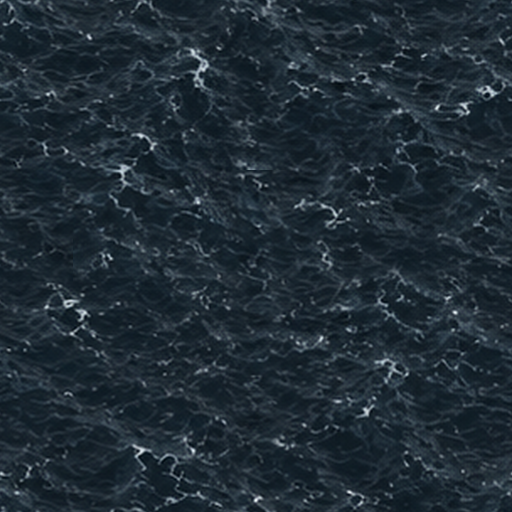
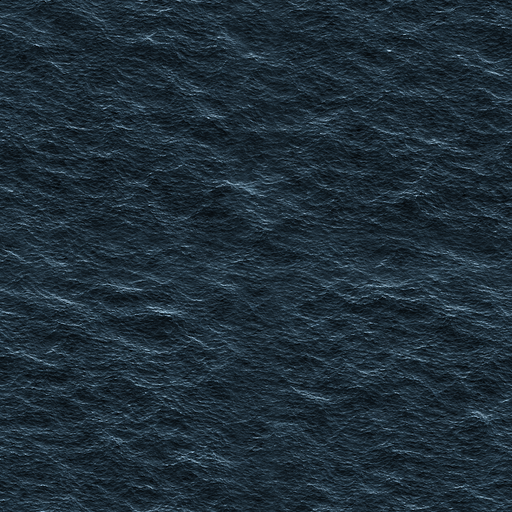
feat: Ozean-Kachel aus watertile.png, Vorlagen werden normiert
Neue Vorlage für die Wasserfläche: watertile.png statt des ChatGPT-Kachelblatts.
Gleichmäßigere feine Kräuselung, keine auffälligen Schaumadern — ruhigere See.

Zwei Änderungen am Werkzeug waren nötig, damit eine fremde Vorlage überhaupt
verwendbar ist:

NORMIERUNG. watertile.png ist 2,2-mal heller und dreimal flacher als die
bisherige Kachel (Streuung 0,033 gegen 0,073). Der Shader hat aber FESTE
Schwellen für Schaumkämme, Wasserfarbe und Kontrastspreizung — mit dieser
Vorlage hätte die Schaumschwelle über allem gelegen, was im Bild vorkommt: keine
Kämme mehr, dafür eine grelle Fläche. `ocean-texture.py` zieht die Kachel jetzt
auf eine feste Zielstatistik (Luminanz 0,171 / 0,073) und lässt den Farbton
unangetastet. Damit ist der Shader quellenunabhängig und Vorlagen lassen sich
tauschen, ohne Konstanten nachzuziehen.

IMMER BEIDE ACHSEN NAHTLOS MACHEN. Ich hatte eingebaut, nur die Achse zu
behandeln, die der Nahttest als gebrochen meldet — bei watertile.png also nur
links/rechts. Gekachelt standen dann klar sichtbare waagerechte Linien im Bild.
Grund: `naht_rang` misst HELLIGKEITSsprünge, und oben/unten lag ein
STRUKTURbruch vor, bei dem das Wellenmuster nicht weiterläuft, die Helligkeit
aber passt. Der Test taugt zur Kontrolle hinterher, nicht als Schalter davor;
das steht jetzt als Warnung an der Funktion. (Er irrt auch in die andere
Richtung: beim fertigen Ergebnis meldet er 97 %, im Bild ist nichts zu sehen.)
[…]

diff --git a/apps/client/src/game/Ocean.ts b/apps/client/src/game/Ocean.ts
@@ -135,7 +135,14 @@ void main() {
   float aWeit = (1.0 - wGrob) * (1.0 - wFein);
   float aGrob = wGrob * (1.0 - wFein);
   float kontrast = inversesqrt(aWeit * aWeit + aGrob * aGrob + wFein * wFein);
-  vec3 kachelMittel = vec3(0.127, 0.175, 0.211);
+  /*
+   * Kanalmittel der Kachel. Bezugspunkt der Kontrastspreizung — es muss NICHT
+   * bei jedem Vorlagenwechsel nachgezogen werden, weil tools/ocean-texture.py
+   * die Kachel auf eine feste Zielstatistik normiert (siehe ZIEL_MITTEL dort).
+   * Ohne diese Normierung hätte eine helle, flaue Vorlage gar keine Kämme mehr
+   * und eine grelle Fläche ergeben.
+   */
+  vec3 kachelMittel = vec3(0.122, 0.182, 0.224);
   wasser = max((wasser - kachelMittel) * kontrast + kachelMittel, vec3(0.0));
 
   /*

diff --git a/tools/ocean-texture.py b/tools/ocean-texture.py
@@ -111,8 +111,20 @@ def nahtlos_machen(feld: np.ndarray, partner: np.ndarray) -> np.ndarray:
     unpassenden Ränder liegen jetzt als Kreuz in der Mitte und werden dort mit
     einem anderen Ausschnitt weich überblendet — mit einem FREMDEN, weil ein
     Verblenden des Feldes mit sich selbst ein Geisterbild ergäbe.
+
+    ⚠ IMMER BEIDE ACHSEN behandeln, auch wenn die Messung eine davon für
+    sauber hält. Der Versuch, nur die gebrochene Achse anzufassen, ging schief:
+    `naht_rang` misst HELLIGKEITSsprünge, und watertile.png hatte oben/unten
+    keinen — wohl aber einen STRUKTURbruch, bei dem das Wellenmuster einfach
+    nicht weiterläuft. Gekachelt standen dann klar sichtbare waagerechte Linien
+    im Bild, obwohl die Zahl 27 % sagte. Die Messung taugt zur Kontrolle
+    hinterher, nicht als Schalter davor.
     """
     n = feld.shape[0]
+    grau = feld.mean(axis=2)
+    print(f"  Naht der Vorlage (nur Helligkeit): links/rechts {naht_rang(grau, 1):.0f}%, "
+          f"oben/unten {naht_rang(grau, 0):.0f}%")
+
     versetzt = np.roll(np.roll(feld, n // 2, axis=0), n // 2, axis=1)
     fremd = np.roll(np.roll(partner, n // 3, axis=0), n // 7, axis=1)
 
@@ -123,6 +135,35 @@ def nahtlos_machen(feld: np.ndarray, partner: np.ndarray) -> np.ndarray:
     keil = keil * keil * (3 - 2 * keil)
     maske = np.maximum(keil[:, None], keil[None, :])[..., None]
     return versetzt * (1 - maske) + fremd * maske
+
+
+# Zielstatistik der fertigen Kachel. Der Ozean-Shader hat FESTE Schwellen für
+# Schaumkämme, Wasserfarbe und Kontrast; sie sind auf diese Werte eingestellt.
+# Ohne Normierung müsste man sie bei jeder neuen Vorlage nachziehen — eine
+# helle, flaue Aufnahme hätte sonst gar keine Kämme mehr und eine grelle Fläche.
+ZIEL_MITTEL = 0.171
+ZIEL_STREUUNG = 0.073
+
+
+def normieren(feld: np.ndarray) -> np.ndarray:
+    """
+    Helligkeit und Kontrast auf die Zielstatistik ziehen, FARBTON unangetastet.
+
+    Gearbeitet wird auf der Luminanz; die Kanäle folgen im selben Verhältnis.
+    Dadurch bleibt das Blau der Vorlage erhalten, nur Helligkeit und Spreizung
+    werden vergleichbar gemacht.
+    """
+    lum = feld @ np.array([0.299, 0.587, 0.114])
+    mittel, streuung = lum.mean() / 255.0, lum.std() / 255.0
+    faktor = ZIEL_STREUUNG / max(streuung, 1e-6)
+    ziel = (lum / 255.0 - mittel) * faktor + ZIEL_MITTEL
+    ziel = np.clip(ziel, 0.004, 1.0)
+    print(
+        f"  Normiert: Mittel {mittel:.3f} -> {ZIEL_MITTEL:.3f}, "
+        f"Streuung {streuung:.3f} -> {ZIEL_STREUUNG:.3f}"
+    )
+    verhaeltnis = (ziel * 255.0) / np.maximum(lum, 1.0)
+    return np.clip(feld * verhaeltnis[..., None], 0, 255)
 
 
 def gauss_periodisch(feld: np.ndarray, sigma: float) -> np.ndarray:
@@ -193,6 +234,7 @@ def main() -> None:
     verlauf = gauss_periodisch(kachel, sigma=n / 5.0)
     mittel = kachel.reshape(-1, kachel.shape[2]).mean(axis=0)
     ausgeglichen = np.clip(kachel - verlauf + mittel, 0, 255)
+    ausgeglichen = normieren(ausgeglichen)
 
     speichern(name_aus(quelle), ausgeglichen / 255.0, "RGB")
 
